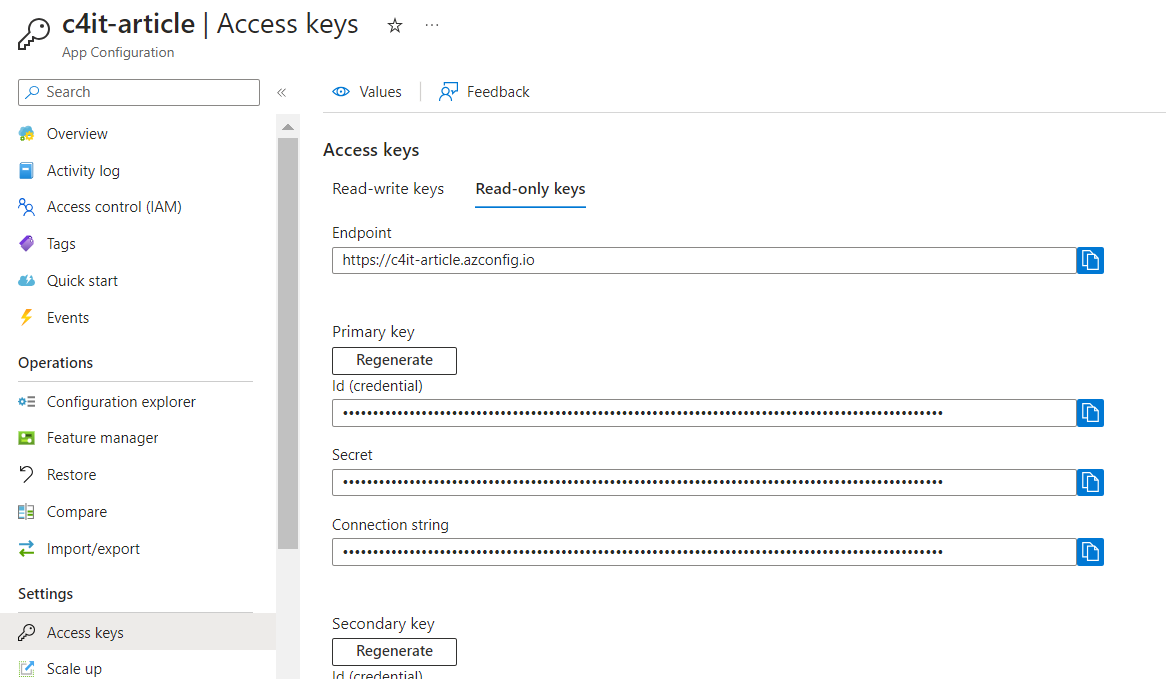
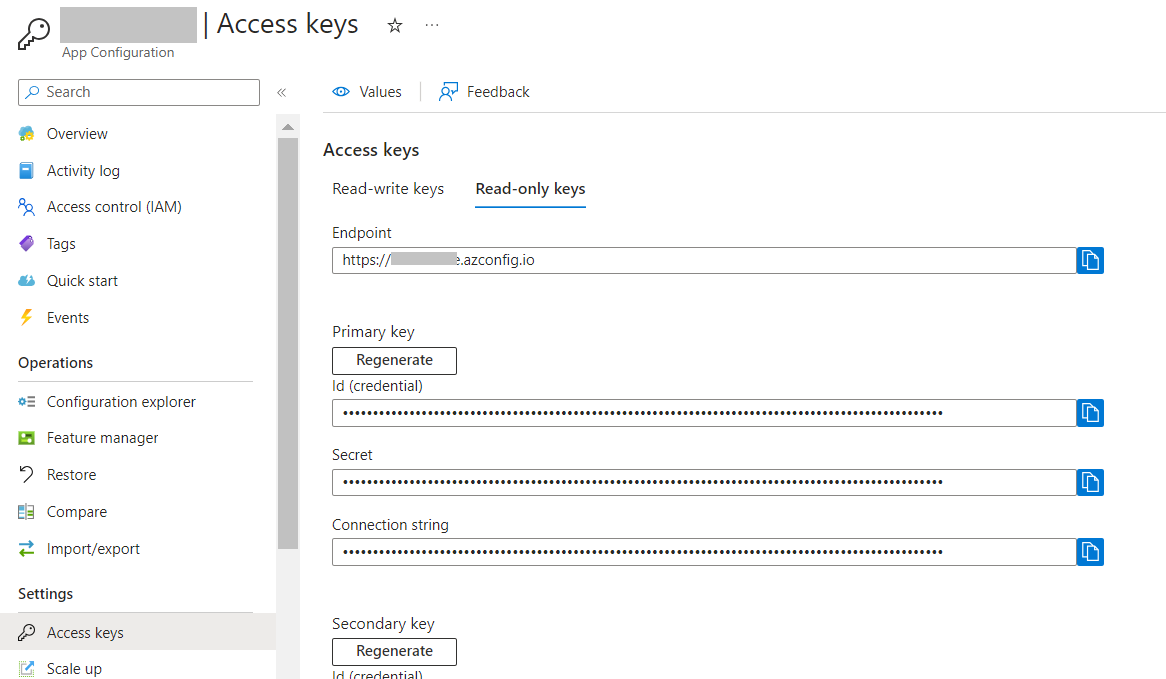
Hidden secrets

Changed region(s): [[0.0309, 0.0, 0.1852, 0.0619], [0.3396, 0.3711, 0.4014, 0.4021]]

diff --git a/content/article/2023/098-azure-app-configuration-dotnet-api/index.md b/content/article/2023/098-azure-app-configuration-dotnet-api/index.md
@@ -13,17 +13,17 @@ toc: true
 summary: "Centralizing configurations can be useful for several reasons: security, consistency, deployability. In this article, we're gonna use Azure App Configuration to centralize the configurations used in a .NET API application."
 ---
 
-Almost every application requires some sort of configurations: connection strings, default values, and so on. 
+Almost every application requires some sort of configuration: connection strings, default values, and so on. 
 
-It's not a good practice to keep all the configurations in your codebase: if your code leaks online, you'll have all your connection strings, private settings, API keys exposed online. 
+It's not a good practice to keep all the configurations in your codebase: if your code leaks online, you'll have all your connection strings, private settings, and API keys exposed online. 
 
 In previous articles, we've learned [how to set up configurations in a .NET application](https://www.code4it.dev/blog/how-to-set-configurations-values-dotnet/), as well as [how to access them in our code using the IOptions](https://www.code4it.dev/blog/ioptions-ioptionsmonitor-ioptionssnapshot/) family.
 
-In this article, we're gonna make our application more secure by moving our configurations out to the cloud, and use Azure App Configurations to securely use such config in our applications.
+In this article, we're gonna make our application more secure by moving our configurations out to the cloud and using Azure App Configurations to securely use such configs in our applications.
 
 But first, as always, we need a dummy project to demonstrate such capabilities.
 
-So, I created a simple .NET 7 API project with just one endpoint, */ConfigDemo*, that returns the values from the settings.
+I created a simple .NET 7 API project with just one endpoint, */ConfigDemo*, that returns the values from the settings.
 
 In fact, in the *appsettings.json* file I have these values:
 
@@ -39,7 +39,7 @@ In fact, in the *appsettings.json* file I have these values:
 }
 ```
 
-That are mapped to a `MyConfig` class:
+These values are mapped to a `MyConfig` class:
 
 ```cs
 public class MyConfig
@@ -89,18 +89,18 @@ As you can see, it's all pretty straightforward. We can call the endpoint and se
 
 Now we can move to the cloud ☁
 
-First, you have to head to the [Azure Portal](https://portal.azure.com/), and create a new App Configuration instance.
+First of all, head to the [Azure Portal](https://portal.azure.com/) and create a new App Configuration instance.
 
-You will be clearly asked to specify the subscription and the resource group, and also to specify the instance location and name.
+You will be asked to specify the subscription and the resource group, and also to specify the instance location and name.
 
 Finally, you can pick the best Pricing Tier for you:
 
 * **Free**: well, it's free, but with fewer capabilities;
-* **Standard**: you pay more, but you can have Geo-replication and possibility to recovery deleted configurations.
+* **Standard**: you pay more, but you can have Geo-replication and the possibility to recover deleted configurations.
 
 ![Azure App Configuration wizard](./azure-app-configuration-wizard.png)
 
-I will chose the Free tier, and complete the resource creation.
+I will choose the Free tier, and complete the resource creation.
 
 After a while, you will finally see the resource overview with its basics info: 
 
@@ -172,15 +172,15 @@ In my opinion, having a proper way to handle configurations is crucial for the s
 
 Centralizing configurations can be useful in three different ways:
 
-1. Your application is more secure, since you don't risk having the credentials exposed on the web;
+1. Your application is more secure since you don't risk having the credentials exposed on the web;
 2. You can share configurations across different services: say that you have 4 services that access the same external APIs that require a Client Secret. Centralizing the config helps in having consistent values across the different services and, for example, updating the secret for all the applications in just one place;
-3. Use different config based on the environment: with Azure App Configuration you can use a set of tags and labels to determine which configs mus be loaded in which environment. This simplifies a lot the management of configurations across different environments.
+3. Use different configs based on the environment: with Azure App Configuration you can use a set of tags and labels to determine which configs must be loaded in which environment. This simplifies a lot the management of configurations across different environments.
 
 But notice that, using the basic approach that we used in this article, configurations coming from Azure are loaded at the startup of the application: **configs are static until you restart the application**. You can configure your application to **poll Azure App Configuration** to always have the most updated values without the need of restarting the application, but it will be the topic of a future article.
 
 ## Further readings
 
-Configurations management is one of the keys of the success of a project: if settings are difficult to manage and, even worse, difficult to set locally for debugging, you'll lose a lot of time (true story!).
+Configuration management is one of the keys to the success of a project: if settings are difficult to manage and, even worse, difficult to set locally for debugging, you'll lose a lot of time (true story!).
 
 However, there are several ways to set configurations for a .NET application, such as Environment Variables, launchSettings, and so on.
 
@@ -215,6 +215,6 @@ Happy coding!
 [ ] Grammatica
 [ ] Bold/Italics
 [ ] Immagine di copertina
-[ ] Rimuovi secrets dalle immagini
+[X] Rimuovi secrets dalle immagini
 [ ] Pulizia formattazione
 [ ] Review finale
